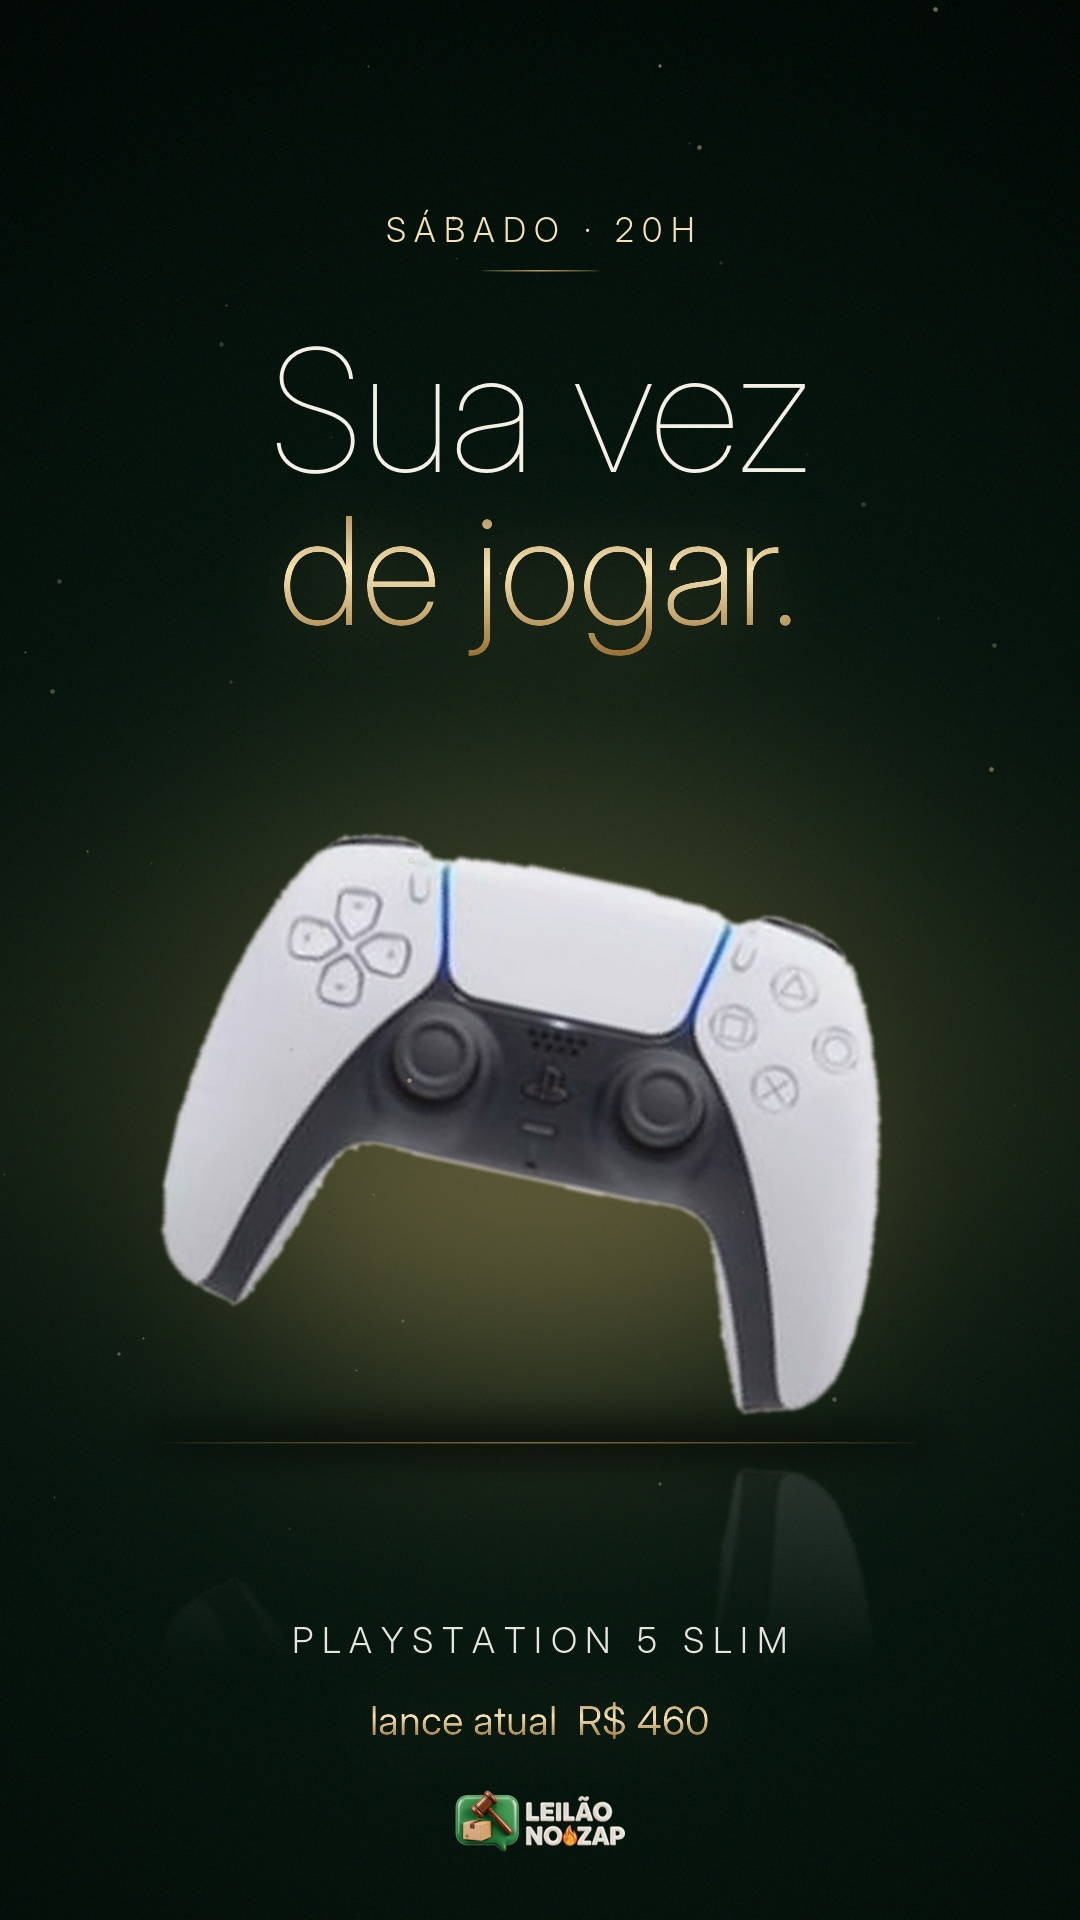
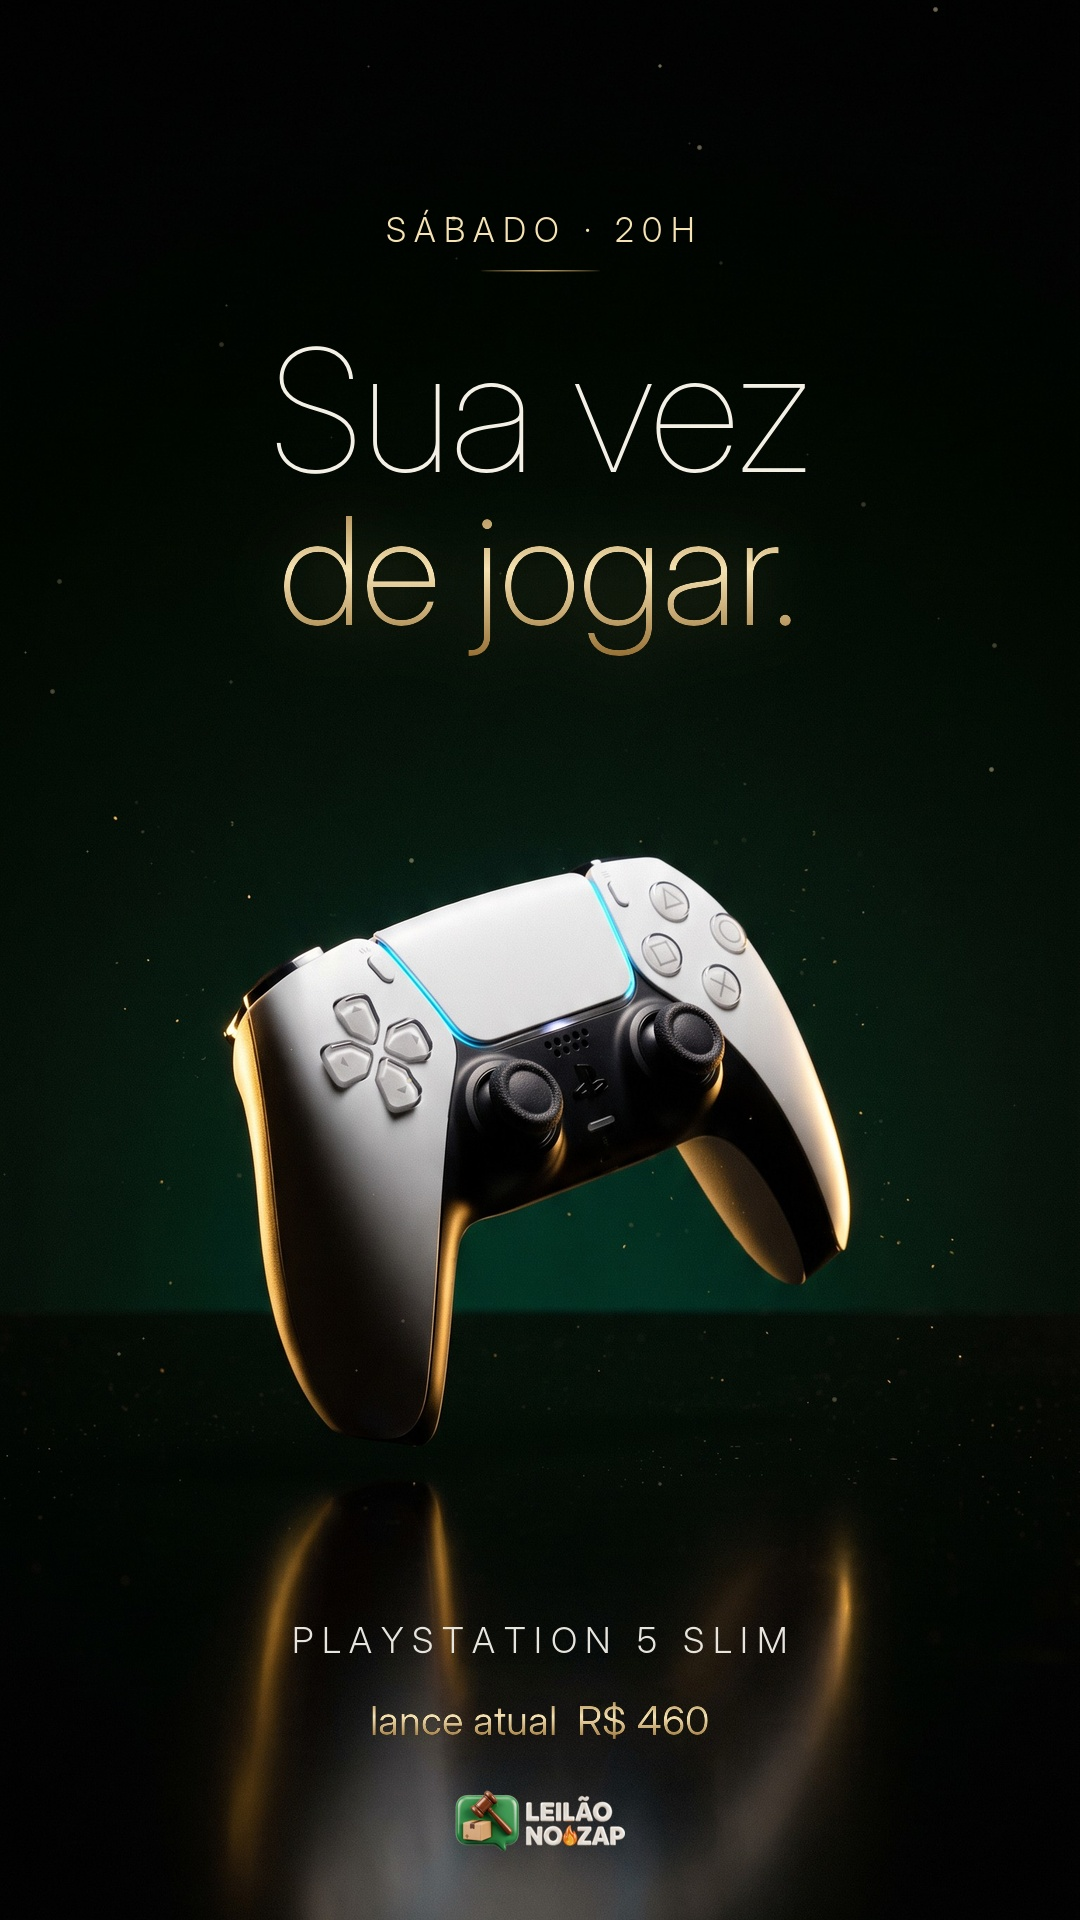
PS5 elite: arte 2 com foto de estúdio do controle
Claude-Session: https://claude.ai/code/session_01JihU9VfVTYTrMqQpApFEjH

Changed region(s): [[0.0917, 0.375, 0.8861, 1.0], [0.6417, 0.8438, 0.6722, 0.875]]

diff --git a/marketing/semana-2026-11-09/sabado-14-11-ps5/fonte/artes_elite.py b/marketing/semana-2026-11-09/sabado-14-11-ps5/fonte/artes_elite.py
@@ -74,15 +74,10 @@ texto(b, (W/2, 1630), espac('SLIM · EDIÇÃO DIGITAL', 1), F('Light', 26), (190
 ouro_txt(b, (W/2, 1735), f'lance atual  R$ {real(LANCE)}', F('Regular', 40), glow=0.2)
 logo(b, 1800, 170)
 b.convert('RGB').save(f'{OUT}/PS5-ELITE-1-monolito.jpg', quality=95)
-# ---------- 2) SUA VEZ (controle gigante, cortado na borda, com aro de luz dourada)
-b = fundo(c1=(9, 30, 20), cy=H*0.58)
-brilho(b, (W/2-520, 650, W/2+520, 1500), OURO, 70, 170)
-ct = controle.resize((720, round(controle.height*720/controle.width)), Image.LANCZOS)
-al = ct.split()[3].filter(ImageFilter.MinFilter(5)).filter(ImageFilter.GaussianBlur(1.5)); ct.putalpha(al)
-ct = ct.filter(ImageFilter.UnsharpMask(2, 50, 2)).rotate(-12, resample=Image.BICUBIC, expand=True)
-brilho(b, (W/2-380, 980, W/2+380, 1420), OURO, 55, 110)
-poe(b, ct, W/2, 1440, 0.18)
-linha_ouro(b, 160, W-160, 1442, 140)
+# ---------- 2) SUA VEZ (foto de estúdio do controle, gerada no Gamma, com luz dourada de borda)
+est = Image.open(f'{F0}/fotos/controle-estudio-gamma.jpg').convert('RGB'); r_ = max(W/est.width, H/est.height)
+est = est.resize((round(est.width*r_), round(est.height*r_)), Image.LANCZOS); xo, yo = (est.width-W)//2, (est.height-H)//2
+b = est.crop((xo, yo + 40, xo+W, yo+H+40) if est.height-H >= 40 else (xo, yo, xo+W, yo+H)).convert('RGBA')
 poeira(b, 40, 9)
 texto(b, (W/2, 230), espac('SÁBADO · 20H', 1), F('Light', 34), OCLARO)
 linha_ouro(b, W/2-60, W/2+60, 270, 220)
